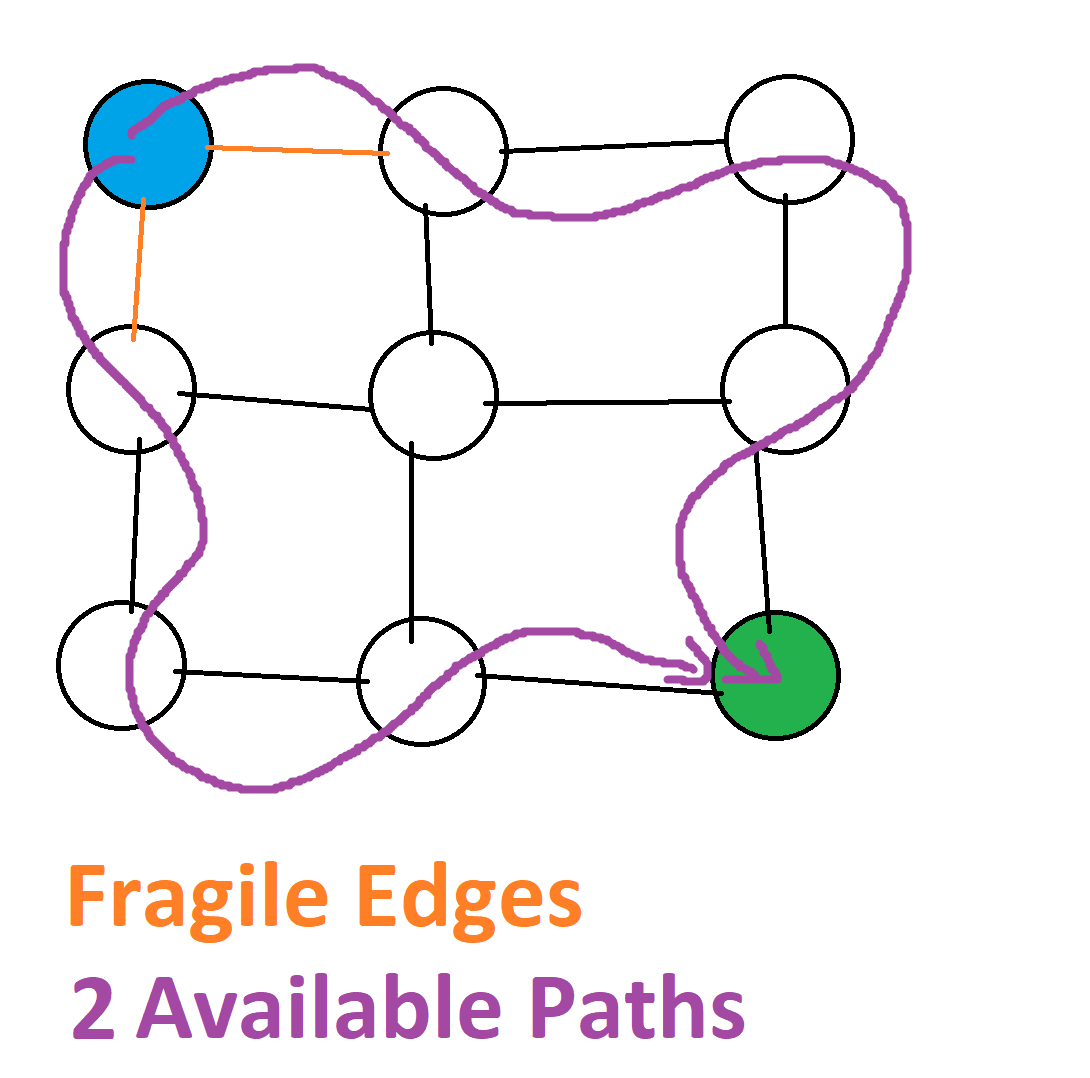
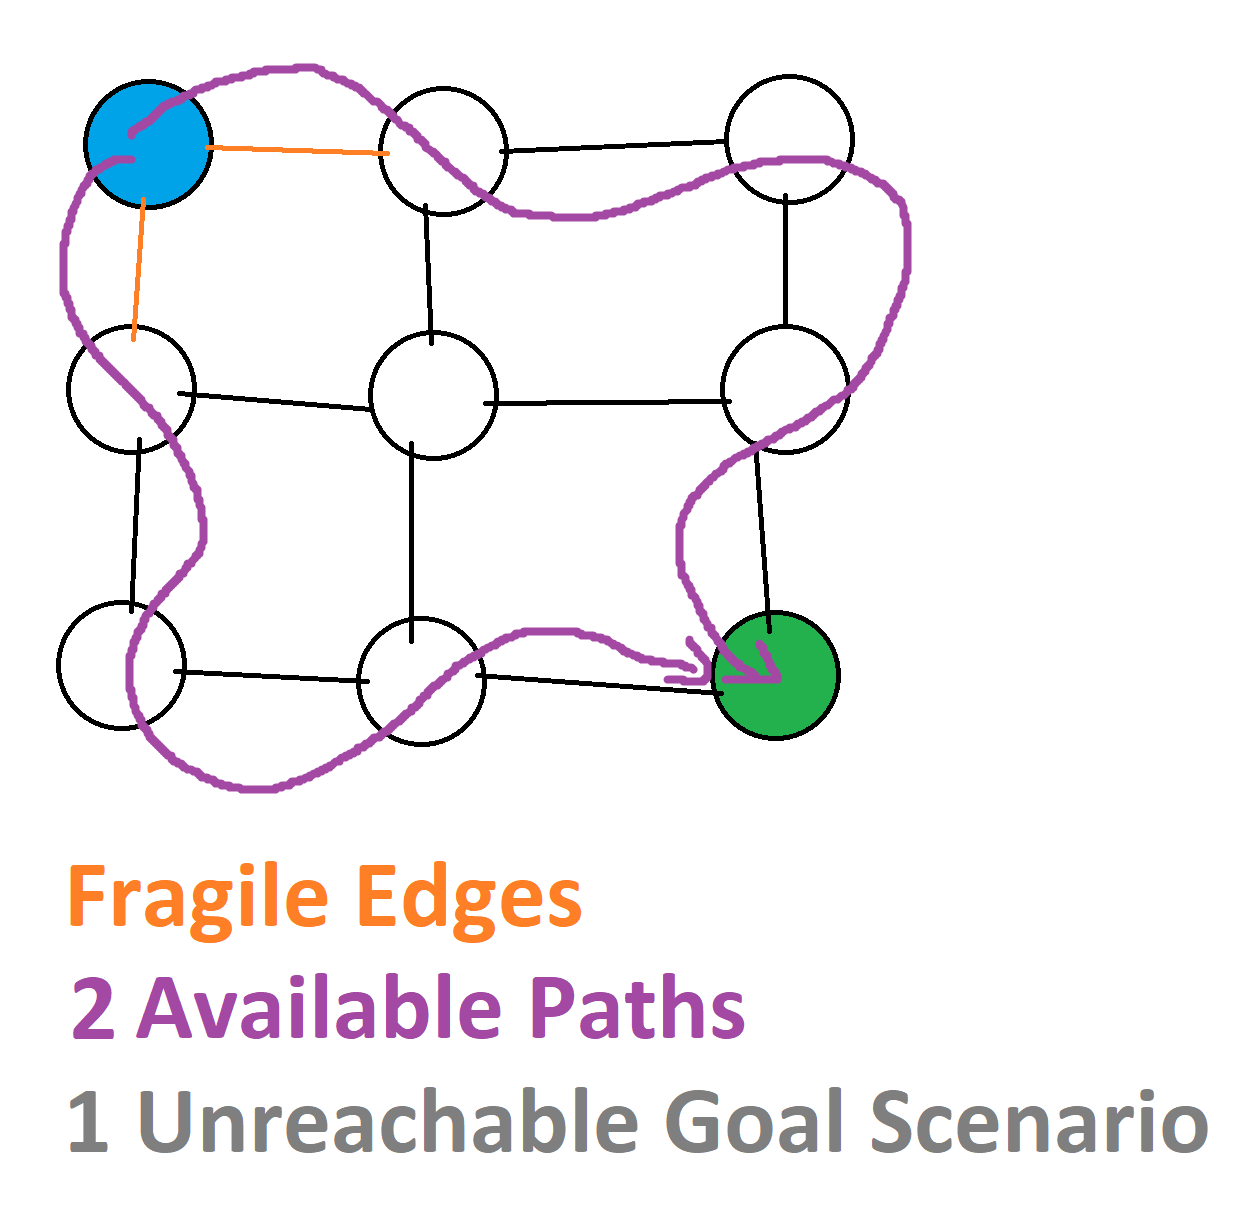
added another scenario

Changed region(s): [[0.0312, 0.0306, 0.967, 0.9796]]

diff --git a/README.md b/README.md
@@ -118,3 +118,4 @@ See the file [input_results.txt](input_results.txt) for the example runs of the 
 in the following input files:
 - [input1.txt](input%2Finput1.txt)
 - [input2.txt](input%2Finput2.txt)
+- [input3.txt](input%2Finput3.txt)
